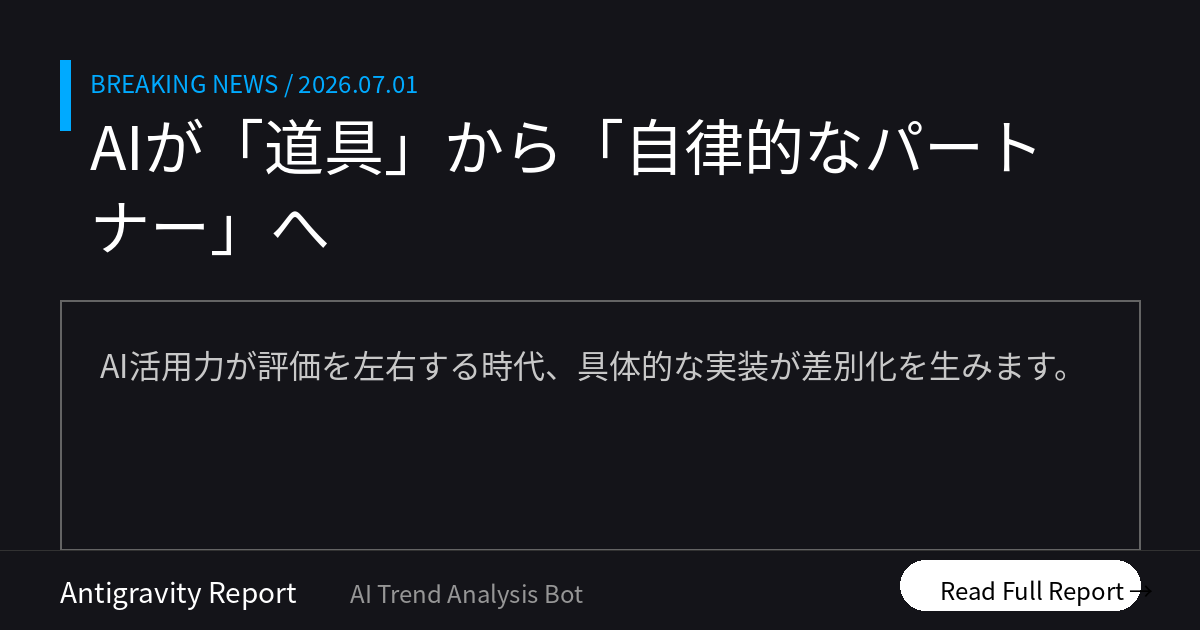
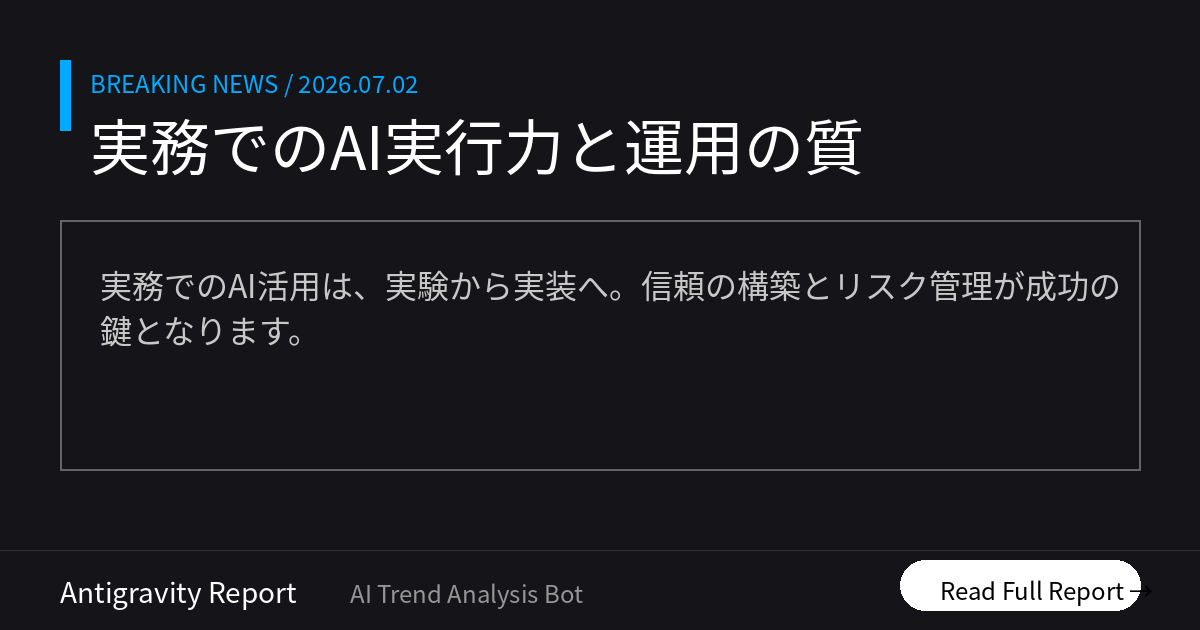
Morning Brief delivered [skip ci]

diff --git a/docs/index.html b/docs/index.html
@@ -12,16 +12,16 @@
     <!-- OGP_START -->
 <meta property="og:type" content="website">
 <meta property="og:site_name" content="AI ニュース TOP10">
-<meta property="og:title" content="AIが「道具」から「自律的なパートナー」へ | AI ニュース TOP10">
-<meta property="og:description" content="AI活用力が評価を左右する時代、具体的な実装が差別化を生みます。 本日のトップ: AI活用力が昇進・評価の直結指標に">
+<meta property="og:title" content="実務でのAI実行力と運用の質 | AI ニュース TOP10">
+<meta property="og:description" content="実務でのAI活用は、実験から実装へ。信頼の構築とリスク管理が成功の鍵となります。 本日のトップ: AIがプロ品質の仕事を完遂し過去最高">
 <meta property="og:image" content="https://tadfuji.github.io/ai-news-bot/ogp_latest.png">
 <meta property="og:url" content="https://tadfuji.github.io/ai-news-bot/">
 <meta name="twitter:card" content="summary_large_image">
-<meta name="twitter:title" content="AIが「道具」から「自律的なパートナー」へ | AI ニュース TOP10">
-<meta name="twitter:description" content="AI活用力が評価を左右する時代、具体的な実装が差別化を生みます。">
+<meta name="twitter:title" content="実務でのAI実行力と運用の質 | AI ニュース TOP10">
+<meta name="twitter:description" content="実務でのAI活用は、実験から実装へ。信頼の構築とリスク管理が成功の鍵となります。">
 <meta name="twitter:image" content="https://tadfuji.github.io/ai-news-bot/ogp_latest.png">
-<meta name="description" content="AI活用力が評価を左右する時代、具体的な実装が差別化を生みます。 世界のAIニュースを毎朝日本語で厳選してお届け。">
-<script type="application/ld+json">{"@context": "https://schema.org", "@type": "ItemList", "name": "AI ニュース TOP10 — AIが「道具」から「自律的なパートナー」へ", "itemListElement": [{"@type": "ListItem", "position": 1, "name": "AI活用力が昇進に直結、管理職の6割が評価へ影響と回答", "url": "https://kn.itmedia.co.jp/kn/articles/2607/02/news025.html"}, {"@type": "ListItem", "position": 2, "name": "Anthropic営業担当が明かす、5つのAIエージェントによる業務自動化", "url": "https://www.itmedia.co.jp/news/articles/2607/02/news017.html"}, {"@type": "ListItem", "position": 3, "name": "最強AI「Claude Fable 5」が日本で提供再開、安全性と性能を両立", "url": "https://www.techno-edge.net/article/2026/07/02/5243.html"}, {"@type": "ListItem", "position": 4, "name": "モノタロウが「購買AIエージェント」を内製、B2B特有の曖昧検索に対応", "url": "https://www.itmedia.co.jp/business/articles/2607/02/news015.html"}, {"@type": "ListItem", "position": 5, "name": "NVIDIA日本代表が語る、AI時代のリーダー論と「日本のためのAI」", "url": "https://pc.watch.impress.co.jp/docs/column/executive_dinner/2120528.html"}, {"@type": "ListItem", "position": 6, "name": "Cloudflareが新方針、AI企業による無断のコンテンツ収集を制限へ", "url": "https://techcrunch.com/2026/07/01/cloudflares-new-policy-pushes-ai-companies-to-pay-for-publishers-content/"}, {"@type": "ListItem", "position": 7, "name": "イーロン・マスク氏のSpaceX、xAI搭載の独自スマホ端末を開発中か", "url": "https://the-decoder.com/spacex-shows-investors-a-slim-ai-smartphone-prototype-powered-by-xai-technology/"}, {"@type": "ListItem", "position": 8, "name": "日印首脳会談、経済安全保障とAI分野での協力強化で合意へ", "url": "https://news.web.nhk/newsweb/na/na-k10015166401000"}, {"@type": "ListItem", "position": 9, "name": "クマ対策にAIとロボット、市街地出没を防ぐ最前線の取り組み", "url": "https://www.itmedia.co.jp/business/articles/2607/02/news024.html"}, {"@type": "ListItem", "position": 10, "name": "インドネシア、特殊詐欺対策でSIMカード開通に「顔認証」を義務化", "url": "https://news.web.nhk/newsweb/na/na-k10015166271000"}]}</script>
+<meta name="description" content="実務でのAI活用は、実験から実装へ。信頼の構築とリスク管理が成功の鍵となります。 世界のAIニュースを毎朝日本語で厳選してお届け。">
+<script type="application/ld+json">{"@context": "https://schema.org", "@type": "ItemList", "name": "AI ニュース TOP10 — 実務でのAI実行力と運用の質", "itemListElement": [{"@type": "ListItem", "position": 1, "name": "AIがフリーランス業務の16%を完遂、プロ品質に到達し過去最高を記録", "url": "https://www.zdnet.com/article/anthropic-fable-5-freelance-work-performance-record/"}, {"@type": "ListItem", "position": 2, "name": "Adobeが提唱する「エージェント型サイト」、訪問者に合わせWebを即時生成", "url": "https://www.latent.space/p/the-website-of-the-future"}, {"@type": "ListItem", "position": 3, "name": "マイクロソフトがAIエンジニア6000人を直接派遣、顧客のROIを保証へ", "url": "https://the-decoder.com/microsoft-launches-2-5-billion-frontier-company-to-embed-6000-ai-engineers-inside-enterprise-clients/"}, {"@type": "ListItem", "position": 4, "name": "AI時代の開発は「コードを書く」から「ループを管理する」へ転換", "url": "https://atmarkit.itmedia.co.jp/ait/articles/2607/03/news016.html"}, {"@type": "ListItem", "position": 5, "name": "AIの過剰なコード実装を抑制する技術「ponytail」が登場", "url": "https://zenn.dev/jodycraft/articles/13b51c5189ac84"}, {"@type": "ListItem", "position": 6, "name": "AIツールがSSDを異常消耗させる不具合、21日で37TB書き込みの衝撃", "url": "https://kn.itmedia.co.jp/kn/articles/2607/03/news041.html"}, {"@type": "ListItem", "position": 7, "name": "産業PC世界最大手が日本にAI拠点、製造業の「フィジカルAI」加速へ", "url": "https://monoist.itmedia.co.jp/mn/articles/2607/03/news065.html"}, {"@type": "ListItem", "position": 8, "name": "みずほFGが中小企業向けAI銀行開始、与信の「空白地帯」を埋める", "url": "https://www.itmedia.co.jp/business/articles/2607/03/news020.html"}, {"@type": "ListItem", "position": 9, "name": "巧妙化するAI生成フィッシングメール、AWSがAIによる防御策を強化", "url": "https://aws.amazon.com/blogs/machine-learning/how-amazon-bedrock-catches-ai-generated-phishing/"}, {"@type": "ListItem", "position": 10, "name": "AnthropicがSamsungと独自AIチップを開発、脱NVIDIAを加速", "url": "https://the-decoder.com/anthropic-reportedly-explores-custom-chip-manufacturing-with-samsung-while-insisting-nvidia-still-matters/"}]}</script>
 <!-- OGP_END -->
     <style>
         :root {
@@ -391,16 +391,16 @@
 
         <main id="news-container">
             <!-- PRERENDER_START -->
-<article class="news-card" data-category="ビジネス活用"><div style="display:flex;align-items:center;margin-bottom:5px;"><span class="news-rank">1</span><span class="news-category" data-category="ビジネス活用">ビジネス活用</span></div><div class="news-oneliner">💡 AI活用力が昇進・評価の直結指標に</div><h2 class="news-title">AI活用力が昇進に直結、管理職の6割が評価へ影響と回答</h2><p class="news-summary">管理職・経営層の約7割が生成AIによって業務成果に差が出ると認識しており、6割以上がAI活用力を評価や昇進の判断材料に含めると回答。今後の最重要スキルとして位置付けられています。</p><div class="news-why">📌 なぜ重要？ AIスキルはもはや「あれば便利」ではなく、人事評価に組み込まれる必須要件になりつつあります。</div><div class="news-action">👉 今日の行動：今日の業務でAIを使って「30分短縮できた作業」を1つ特定してください。</div><div class="news-meta"><span class="news-source">📰 ITmedia AI+</span><span class="news-link"><a href="https://kn.itmedia.co.jp/kn/articles/2607/02/news025.html" target="_blank" rel="noopener">→ 元記事を読む</a></span></div></article>
-<article class="news-card" data-category="ビジネス活用"><div style="display:flex;align-items:center;margin-bottom:5px;"><span class="news-rank">2</span><span class="news-category" data-category="ビジネス活用">ビジネス活用</span></div><div class="news-oneliner">💡 営業の定型業務を5つのAIが完全代行</div><h2 class="news-title">Anthropic営業担当が明かす、5つのAIエージェントによる業務自動化</h2><p class="news-summary">非エンジニアの営業担当者が5つのAIエージェント（ClaudeのCowork機能）を使い、リード管理やCRM更新を自動化。MCPを活用し高度な外部ツール連携を実現しています。</p><div class="news-why">📌 なぜ重要？ 非エンジニアでもMCP等のツールを使い、高度な自動化エージェントを自作できる時代に突入しました。</div><div class="news-action">👉 今日の行動：毎日発生する「報告メール」や「データ入力」をAIに任せられないか検討しましょう。</div><div class="news-meta"><span class="news-source">📰 ITmedia AI+</span><span class="news-link"><a href="https://www.itmedia.co.jp/news/articles/2607/02/news017.html" target="_blank" rel="noopener">→ 元記事を読む</a></span></div></article>
-<article class="news-card" data-category="対話型AI"><div style="display:flex;align-items:center;margin-bottom:5px;"><span class="news-rank">3</span><span class="news-category" data-category="対話型AI">対話型AI</span></div><div class="news-oneliner">💡 最強AI『Claude Fable 5』提供再開</div><h2 class="news-title">最強AI「Claude Fable 5」が日本で提供再開、安全性と性能を両立</h2><p class="news-summary">Anthropicの最上位モデルが提供再開。ジェイルブレーク対策の新分類器を導入し、有害出力を99%ブロック。7月7日までは既存サブスク枠で試用が可能です。</p><div class="news-why">📌 なぜ重要？ 安全性と高性能のトレードオフをどう管理するかが、最先端AI利用の最前線です。</div><div class="news-action">👉 今日の行動：7月7日までの試用期間中に、複雑な推論タスクを最上位モデルで試してみましょう。</div><div class="news-meta"><span class="news-source">📰 TechnoEdge</span><span class="news-link"><a href="https://www.techno-edge.net/article/2026/07/02/5243.html" target="_blank" rel="noopener">→ 元記事を読む</a></span></div></article>
-<article class="news-card" data-category="ビジネス活用"><div style="display:flex;align-items:center;margin-bottom:5px;"><span class="news-rank">4</span><span class="news-category" data-category="ビジネス活用">ビジネス活用</span></div><div class="news-oneliner">💡 曖昧な要望を汲み取る『購買AI』内製化</div><h2 class="news-title">モノタロウが「購買AIエージェント」を内製、B2B特有の曖昧検索に対応</h2><p class="news-summary">業界用語や曖昧な用途から最適な商品を提案する独自のAIエージェントを開発。推奨理由の説明機能により、事務担当者の意思決定を支援します。</p><div class="news-why">📌 なぜ重要？ 専門用語を理解するAIは、顧客体験を根本から変え、データに基づく競合優位性を築きます。</div><div class="news-action">👉 今日の行動：自社独自の専門用語が、生成AIでどこまで正しく解釈されるか試してください。</div><div class="news-meta"><span class="news-source">📰 ITmedia AI+</span><span class="news-link"><a href="https://www.itmedia.co.jp/business/articles/2607/02/news015.html" target="_blank" rel="noopener">→ 元記事を読む</a></span></div></article>
-<article class="news-card" data-category="日本市場"><div style="display:flex;align-items:center;margin-bottom:5px;"><span class="news-rank">5</span><span class="news-category" data-category="日本市場">日本市場</span></div><div class="news-oneliner">💡 AI時代のリーダーは『日本のために』動く</div><h2 class="news-title">NVIDIA日本代表が語る、AI時代のリーダー論と「日本のためのAI」</h2><p class="news-summary">日本代表の大崎氏がAI時代のアスリートのような心身管理と建設的な仲間作りの重要性を強調。若い世代のツール活用を高く評価しています。</p><div class="news-why">📌 なぜ重要？ 技術革新が激しい時こそ、個人の信念と心身のコンディショニングが正確な判断を支えます。</div><div class="news-action">👉 今日の行動：AIの情報に追われるだけでなく、同僚と建設的な対話をする時間を15分持ちましょう。</div><div class="news-meta"><span class="news-source">📰 PC Watch</span><span class="news-link"><a href="https://pc.watch.impress.co.jp/docs/column/executive_dinner/2120528.html" target="_blank" rel="noopener">→ 元記事を読む</a></span></div></article>
-<article class="news-card" data-category="リスク・規制"><div style="display:flex;align-items:center;margin-bottom:5px;"><span class="news-rank">6</span><span class="news-category" data-category="リスク・規制">リスク・規制</span></div><div class="news-oneliner">💡 AIによる無断データ収集に待った</div><h2 class="news-title">Cloudflareが新方針、AI企業による無断のコンテンツ収集を制限へ</h2><p class="news-summary">AI学習目的のクローラーを分離し、対応しない企業をデフォルトでブロックする新ポリシーを発表。コンテンツへの対価支払いを促す狙いがあります。</p><div class="news-why">📌 なぜ重要？ データの権利保護が強化され、AI開発側とコンテンツ保有者の対等な関係構築が進みます。</div><div class="news-action">👉 今日の行動：自社サイトのrobots.txtやデータ利用ポリシーがAI対応になっているか確認しましょう。</div><div class="news-meta"><span class="news-source">📰 TechCrunch AI</span><span class="news-link"><a href="https://techcrunch.com/2026/07/01/cloudflares-new-policy-pushes-ai-companies-to-pay-for-publishers-content/" target="_blank" rel="noopener">→ 元記事を読む</a></span></div></article>
-<article class="news-card" data-category="ビジネス活用"><div style="display:flex;align-items:center;margin-bottom:5px;"><span class="news-rank">7</span><span class="news-category" data-category="ビジネス活用">ビジネス活用</span></div><div class="news-oneliner">💡 xAI搭載の独自スマホが開発中</div><h2 class="news-title">イーロン・マスク氏のSpaceX、xAI搭載の独自スマホ端末を開発中か</h2><p class="news-summary">xAIの技術を統合した超薄型デバイスのプロトタイプを公開。OSから独自開発し、AppleやGoogleに依存しないAI特化型ハードウェアを目指しています。</p><div class="news-why">📌 なぜ重要？ スマホの主役がOSからAIエージェントへ移行し、ハードウェアの形が変わる転換点となる可能性があります。</div><div class="news-action">👉 今日の行動：「もし画面がないAIデバイス」なら、今の業務の何が便利になるか想像してください。</div><div class="news-meta"><span class="news-source">📰 The Decoder</span><span class="news-link"><a href="https://the-decoder.com/spacex-shows-investors-a-slim-ai-smartphone-prototype-powered-by-xai-technology/" target="_blank" rel="noopener">→ 元記事を読む</a></span></div></article>
-<article class="news-card" data-category="日本市場"><div style="display:flex;align-items:center;margin-bottom:5px;"><span class="news-rank">8</span><span class="news-category" data-category="日本市場">日本市場</span></div><div class="news-oneliner">💡 日印がAI・経済安保で連携強化へ</div><h2 class="news-title">日印首脳会談、経済安全保障とAI分野での協力強化で合意へ</h2><p class="news-summary">日本とインドが信頼できるAIの開発やサプライチェーン強化で連携。グローバルなAI規制の枠組み作りで主導権を握る狙いがあります。</p><div class="news-why">📌 なぜ重要？ 地政学的なリスクを背景に、信頼できるAI開発のための国際的な協力枠組みが重要視されています。</div><div class="news-action">👉 今日の行動：インドのIT人材やオフショア開発の最新動向について、ニュースを1件調べてみましょう。</div><div class="news-meta"><span class="news-source">📰 NHK 科学・技術</span><span class="news-link"><a href="https://news.web.nhk/newsweb/na/na-k10015166401000" target="_blank" rel="noopener">→ 元記事を読む</a></span></div></article>
-<article class="news-card" data-category="日本市場"><div style="display:flex;align-items:center;margin-bottom:5px;"><span class="news-rank">9</span><span class="news-category" data-category="日本市場">日本市場</span></div><div class="news-oneliner">💡 クマ撃退にAIカメラと遠隔ロボ導入</div><h2 class="news-title">クマ対策にAIとロボット、市街地出没を防ぐ最前線の取り組み</h2><p class="news-summary">ファミリーマートが野生動物撃退ロボ「モンスターウルフ」を実証実験。AIカメラによる検知システムなど、テクノロジーによる地域安全の確保が進んでいます。</p><div class="news-why">📌 なぜ重要？ 社会課題の解決にAIとハードウェアを組み合わせる「エッジAI」の好事例です。</div><div class="news-action">👉 今日の行動：身近な「安全管理」の課題を、画像認識AIで解決できないか考えてみてください。</div><div class="news-meta"><span class="news-source">📰 ITmedia ビジネスオンライン</span><span class="news-link"><a href="https://www.itmedia.co.jp/business/articles/2607/02/news024.html" target="_blank" rel="noopener">→ 元記事を読む</a></span></div></article>
-<article class="news-card" data-category="リスク・規制"><div style="display:flex;align-items:center;margin-bottom:5px;"><span class="news-rank">10</span><span class="news-category" data-category="リスク・規制">リスク・規制</span></div><div class="news-oneliner">💡 SIM開通にAI顔認証を義務化</div><h2 class="news-title">インドネシア、特殊詐欺対策でSIMカード開通に「顔認証」を義務化</h2><p class="news-summary">不正入手したSIMによる詐欺を根絶するため、回線開通時の本人確認にAI顔認証を導入。東南アジアでAIを悪用した詐欺への対抗策が強化されています。</p><div class="news-why">📌 なぜ重要？ 詐欺対策としてAI認証が不可欠になり、グローバルでセキュリティ基準の底上げが進んでいます。</div><div class="news-action">👉 今日の行動：自社サービスの認証プロセスが、最新のなりすまし対策に対応しているか見直しましょう。</div><div class="news-meta"><span class="news-source">📰 NHK 科学・技術</span><span class="news-link"><a href="https://news.web.nhk/newsweb/na/na-k10015166271000" target="_blank" rel="noopener">→ 元記事を読む</a></span></div></article>
+<article class="news-card" data-category="ビジネス活用"><div style="display:flex;align-items:center;margin-bottom:5px;"><span class="news-rank">1</span><span class="news-category" data-category="ビジネス活用">ビジネス活用</span></div><div class="news-oneliner">💡 AIがプロ品質の仕事を完遂し過去最高</div><h2 class="news-title">AIがフリーランス業務の16%を完遂、プロ品質に到達し過去最高を記録</h2><p class="news-summary">最新モデル「Fable 5」が、3Dモデリングや動画制作などの実務テストで16.1%の自動化率を達成。わずか8ヶ月で性能が4倍以上に向上し、AIが経済的価値のあるタスクを完結させる能力が急速に高まっています。</p><div class="news-why">📌 なぜ重要？ AIが単なる「助手」ではなく、完結した成果物を出す「実行主体」になりつつあります。</div><div class="news-action">👉 今日の行動：外注している定型タスクがAIで代替可能か試算してみましょう。</div><div class="news-meta"><span class="news-source">📰 ZDNet AI</span><span class="news-link"><a href="https://www.zdnet.com/article/anthropic-fable-5-freelance-work-performance-record/" target="_blank" rel="noopener">→ 元記事を読む</a></span></div></article>
+<article class="news-card" data-category="ビジネス活用"><div style="display:flex;align-items:center;margin-bottom:5px;"><span class="news-rank">2</span><span class="news-category" data-category="ビジネス活用">ビジネス活用</span></div><div class="news-oneliner">💡 Webサイトが訪問者に合わせ即時生成</div><h2 class="news-title">Adobeが提唱する「エージェント型サイト」、訪問者に合わせWebを即時生成</h2><p class="news-summary">Adobeは、ユーザーの意図に合わせてWebサイトの構成をリアルタイムに生成する実験を開始。キャンプ好きのユーザーには、商品を自動でアウトドア仕様に書き換えるなど、1対1の究極の顧客体験を提供します。</p><div class="news-why">📌 なぜ重要？ 顧客の意図をAIが推論し、接点を動的に変える「動的サイト」が今後の標準になります。</div><div class="news-action">👉 今日の行動：自社のWebサイトを特定のターゲット向けに書き換える案を練りましょう。</div><div class="news-meta"><span class="news-source">📰 Latent Space</span><span class="news-link"><a href="https://www.latent.space/p/the-website-of-the-future" target="_blank" rel="noopener">→ 元記事を読む</a></span></div></article>
+<article class="news-card" data-category="ビジネス活用"><div style="display:flex;align-items:center;margin-bottom:5px;"><span class="news-rank">3</span><span class="news-category" data-category="ビジネス活用">ビジネス活用</span></div><div class="news-oneliner">💡 MSが技術者6000人を派遣し成果保証</div><h2 class="news-title">マイクロソフトがAIエンジニア6000人を直接派遣、顧客のROIを保証へ</h2><p class="news-summary">マイクロソフトは25億ドルを投じ、6000人のAIエンジニアを企業に派遣する専門組織を設立。実験ではなく、実利益（ROI）を出すことに焦点を当て、基幹プロセスへのAI実装を強制的に加速させます。</p><div class="news-why">📌 なぜ重要？ AI導入が「ツール配布」から、利益に直結する「基幹プロセスの再構築」へ移ります。</div><div class="news-action">👉 今日の行動：AI導入で何％のコスト削減ができるか、具体的な目標値を設定しましょう。</div><div class="news-meta"><span class="news-source">📰 The Decoder</span><span class="news-link"><a href="https://the-decoder.com/microsoft-launches-2-5-billion-frontier-company-to-embed-6000-ai-engineers-inside-enterprise-clients/" target="_blank" rel="noopener">→ 元記事を読む</a></span></div></article>
+<article class="news-card" data-category="研究・技術"><div style="display:flex;align-items:center;margin-bottom:5px;"><span class="news-rank">4</span><span class="news-category" data-category="研究・技術">研究・技術</span></div><div class="news-oneliner">💡 開発はコード作成からループ管理へ</div><h2 class="news-title">AI時代の開発は「コードを書く」から「ループを管理する」へ転換</h2><p class="news-summary">開発者の役割が、コード記述からAIエージェントの試行錯誤を制御する「ループエンジニアリング」へ移行。AIに何をさせ、どう評価するかという高次の管理能力が重視されるようになります。</p><div class="news-why">📌 なぜ重要？ コードを書く技術以上に、AIの試行錯誤を制御する管理能力がエンジニアの鍵です。</div><div class="news-action">👉 今日の行動：AIへの指示とフィードバックのサイクルをどう組むか、図解してみましょう。</div><div class="news-meta"><span class="news-source">📰 ITmedia AI+</span><span class="news-link"><a href="https://atmarkit.itmedia.co.jp/ait/articles/2607/03/news016.html" target="_blank" rel="noopener">→ 元記事を読む</a></span></div></article>
+<article class="news-card" data-category="ビジネス活用"><div style="display:flex;align-items:center;margin-bottom:5px;"><span class="news-rank">5</span><span class="news-category" data-category="ビジネス活用">ビジネス活用</span></div><div class="news-oneliner">💡 AIの過剰コードを抑える新技術が登場</div><h2 class="news-title">AIの過剰なコード実装を抑制する技術「ponytail」が登場</h2><p class="news-summary">AIが必要以上に複雑なコードを書くのを防ぎ、効率的な実装を促すOSS「ponytail」が注目。AIに「怠惰だが優秀なエンジニア」の振る舞いをさせ、コードの肥大化とコスト増を抑えます。</p><div class="news-why">📌 なぜ重要？ AIの出力を無批判に受け入れず、効率性と保守性を維持する工夫が求められます。</div><div class="news-action">👉 今日の行動：AIが生成したコードに無駄がないか、人間がレビューする習慣をつけましょう。</div><div class="news-meta"><span class="news-source">📰 Zenn LLM</span><span class="news-link"><a href="https://zenn.dev/jodycraft/articles/13b51c5189ac84" target="_blank" rel="noopener">→ 元記事を読む</a></span></div></article>
+<article class="news-card" data-category="リスク・規制"><div style="display:flex;align-items:center;margin-bottom:5px;"><span class="news-rank">6</span><span class="news-category" data-category="リスク・規制">リスク・規制</span></div><div class="news-oneliner">💡 AIツールの設定ミスでSSDが物理故障</div><h2 class="news-title">AIツールがSSDを異常消耗させる不具合、21日で37TB書き込みの衝撃</h2><p class="news-summary">OpenAI Codex CLIの設定ミスにより、わずか21日間で37TBのログがSSDに書き込まれ、物理的故障を招く事例が判明。詳細ログ設定という初歩的なミスがハードウェア資産を損なうリスクを露呈しました。</p><div class="news-why">📌 なぜ重要？ AIツールの設定不備が物理的な損害を招くという、実務上の新たな運用リスクです。</div><div class="news-action">👉 今日の行動：利用中のAIツールのログ設定やPC負荷を一度チェックしてみましょう。</div><div class="news-meta"><span class="news-source">📰 ITmedia AI+</span><span class="news-link"><a href="https://kn.itmedia.co.jp/kn/articles/2607/03/news041.html" target="_blank" rel="noopener">→ 元記事を読む</a></span></div></article>
+<article class="news-card" data-category="日本市場"><div style="display:flex;align-items:center;margin-bottom:5px;"><span class="news-rank">7</span><span class="news-category" data-category="日本市場">日本市場</span></div><div class="news-oneliner">💡 製造現場のフィジカルAI拠点が国内へ</div><h2 class="news-title">産業PC世界最大手が日本にAI拠点、製造業の「フィジカルAI」加速へ</h2><p class="news-summary">アドバンテックが福岡県に大型投資を行い、エッジAI事業を強化。NVIDIAと連携し、ロボット等の物理挙動をAIで制御する「フィジカルAI」のプラットフォームを日本国内で展開します。</p><div class="news-why">📌 なぜ重要？ 物理的なモノの動きをAIで制御する技術が、日本の製造現場で本格始動します。</div><div class="news-action">👉 今日の行動：自社の物理的な作業プロセスで自動化できる部分を洗い出しましょう。</div><div class="news-meta"><span class="news-source">📰 ITmedia AI+</span><span class="news-link"><a href="https://monoist.itmedia.co.jp/mn/articles/2607/03/news065.html" target="_blank" rel="noopener">→ 元記事を読む</a></span></div></article>
+<article class="news-card" data-category="日本市場"><div style="display:flex;align-items:center;margin-bottom:5px;"><span class="news-rank">8</span><span class="news-category" data-category="日本市場">日本市場</span></div><div class="news-oneliner">💡 中小企業の成長をAI与信が加速させる</div><h2 class="news-title">みずほFGが中小企業向けAI銀行開始、与信の「空白地帯」を埋める</h2><p class="news-summary">みずほがUPSIDERと提携し、AI与信を活用した中小・スタートアップ向け銀行サービスを開始。従来の銀行が敬遠した層に対し、AIによる即日口座開設や低価格融資を提供します。</p><div class="news-why">📌 なぜ重要？ 資金調達の選択肢が広がる中、AIによる透明性の高い与信が中小企業の成長を支えます。</div><div class="news-action">👉 今日の行動：AI与信など、自社が利用できる最新の金融サービスを調べてみましょう。</div><div class="news-meta"><span class="news-source">📰 ITmedia ビジネスオンライン</span><span class="news-link"><a href="https://www.itmedia.co.jp/business/articles/2607/03/news020.html" target="_blank" rel="noopener">→ 元記事を読む</a></span></div></article>
+<article class="news-card" data-category="リスク・規制"><div style="display:flex;align-items:center;margin-bottom:5px;"><span class="news-rank">9</span><span class="news-category" data-category="リスク・規制">リスク・規制</span></div><div class="news-oneliner">💡 AI対AI。巧妙な詐欺をAIで検知</div><h2 class="news-title">巧妙化するAI生成フィッシングメール、AWSがAIによる防御策を強化</h2><p class="news-summary">生成AIで作られた自然なフィッシングメールが急増。これに対しAmazon Bedrockは、受信メールの背後にある「悪意ある意図」をAIで検知する仕組みを導入し、防御を強化しています。</p><div class="news-why">📌 なぜ重要？ 攻撃側もAIを使う今、防御側もAIを前提としたセキュリティ体制が不可欠です。</div><div class="news-action">👉 今日の行動：疑わしいメールがないか、セキュリティ設定の自動検知を確認しましょう。</div><div class="news-meta"><span class="news-source">📰 AWS Machine Learning</span><span class="news-link"><a href="https://aws.amazon.com/blogs/machine-learning/how-amazon-bedrock-catches-ai-generated-phishing/" target="_blank" rel="noopener">→ 元記事を読む</a></span></div></article>
+<article class="news-card" data-category="研究・技術"><div style="display:flex;align-items:center;margin-bottom:5px;"><span class="news-rank">10</span><span class="news-category" data-category="研究・技術">研究・技術</span></div><div class="news-oneliner">💡 独自AIチップ開発で垂直統合が進む</div><h2 class="news-title">AnthropicがSamsungと独自AIチップを開発、脱NVIDIAを加速</h2><p class="news-summary">OpenAIに続き、Anthropicが独自AIチップの開発を検討中。運用コストの削減とGPU供給不足への対策を狙い、AI業界の覇権争いは半導体レイヤーの垂直統合へ向かっています。</p><div class="news-why">📌 なぜ重要？ 性能向上とコスト低減のため、ハードウェアの選定がAI戦略の重要項目になります。</div><div class="news-action">👉 今日の行動：将来的なAIの運用コストを抑えるため、マルチチップ環境を想定しましょう。</div><div class="news-meta"><span class="news-source">📰 The Decoder</span><span class="news-link"><a href="https://the-decoder.com/anthropic-reportedly-explores-custom-chip-manufacturing-with-samsung-while-insisting-nvidia-still-matters/" target="_blank" rel="noopener">→ 元記事を読む</a></span></div></article>
 <!-- PRERENDER_END -->
         </main>
 
